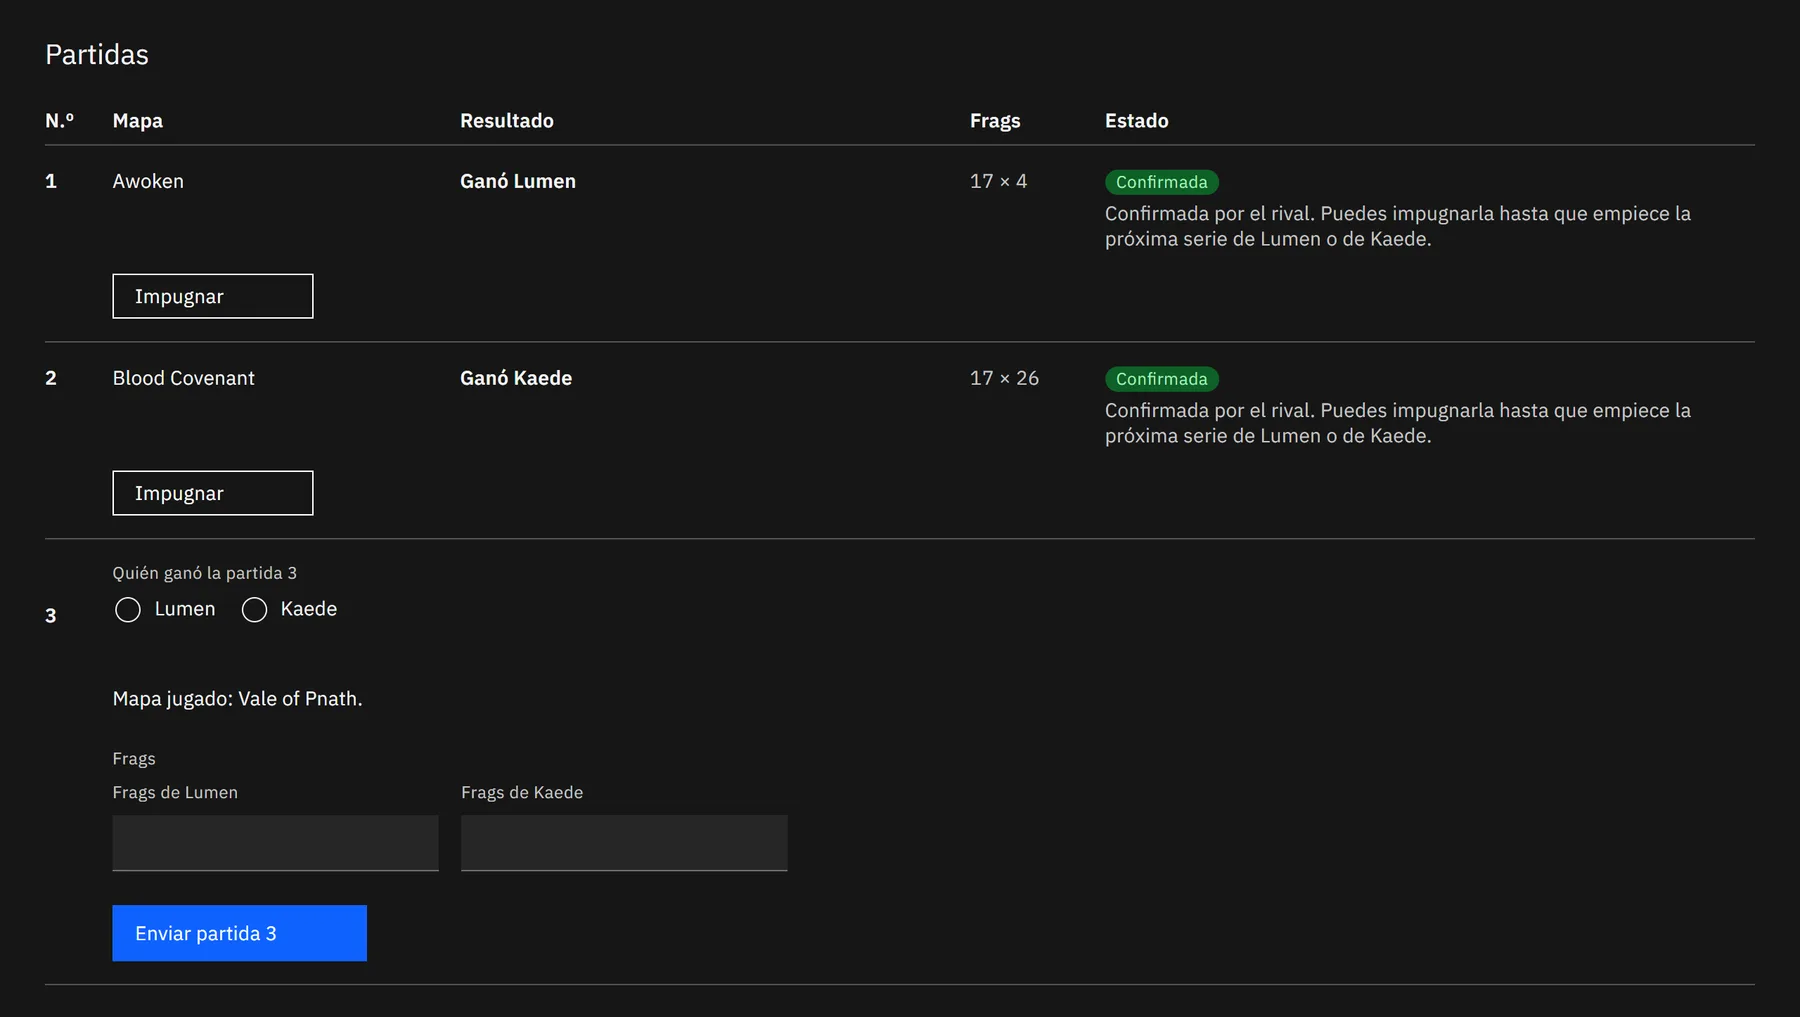
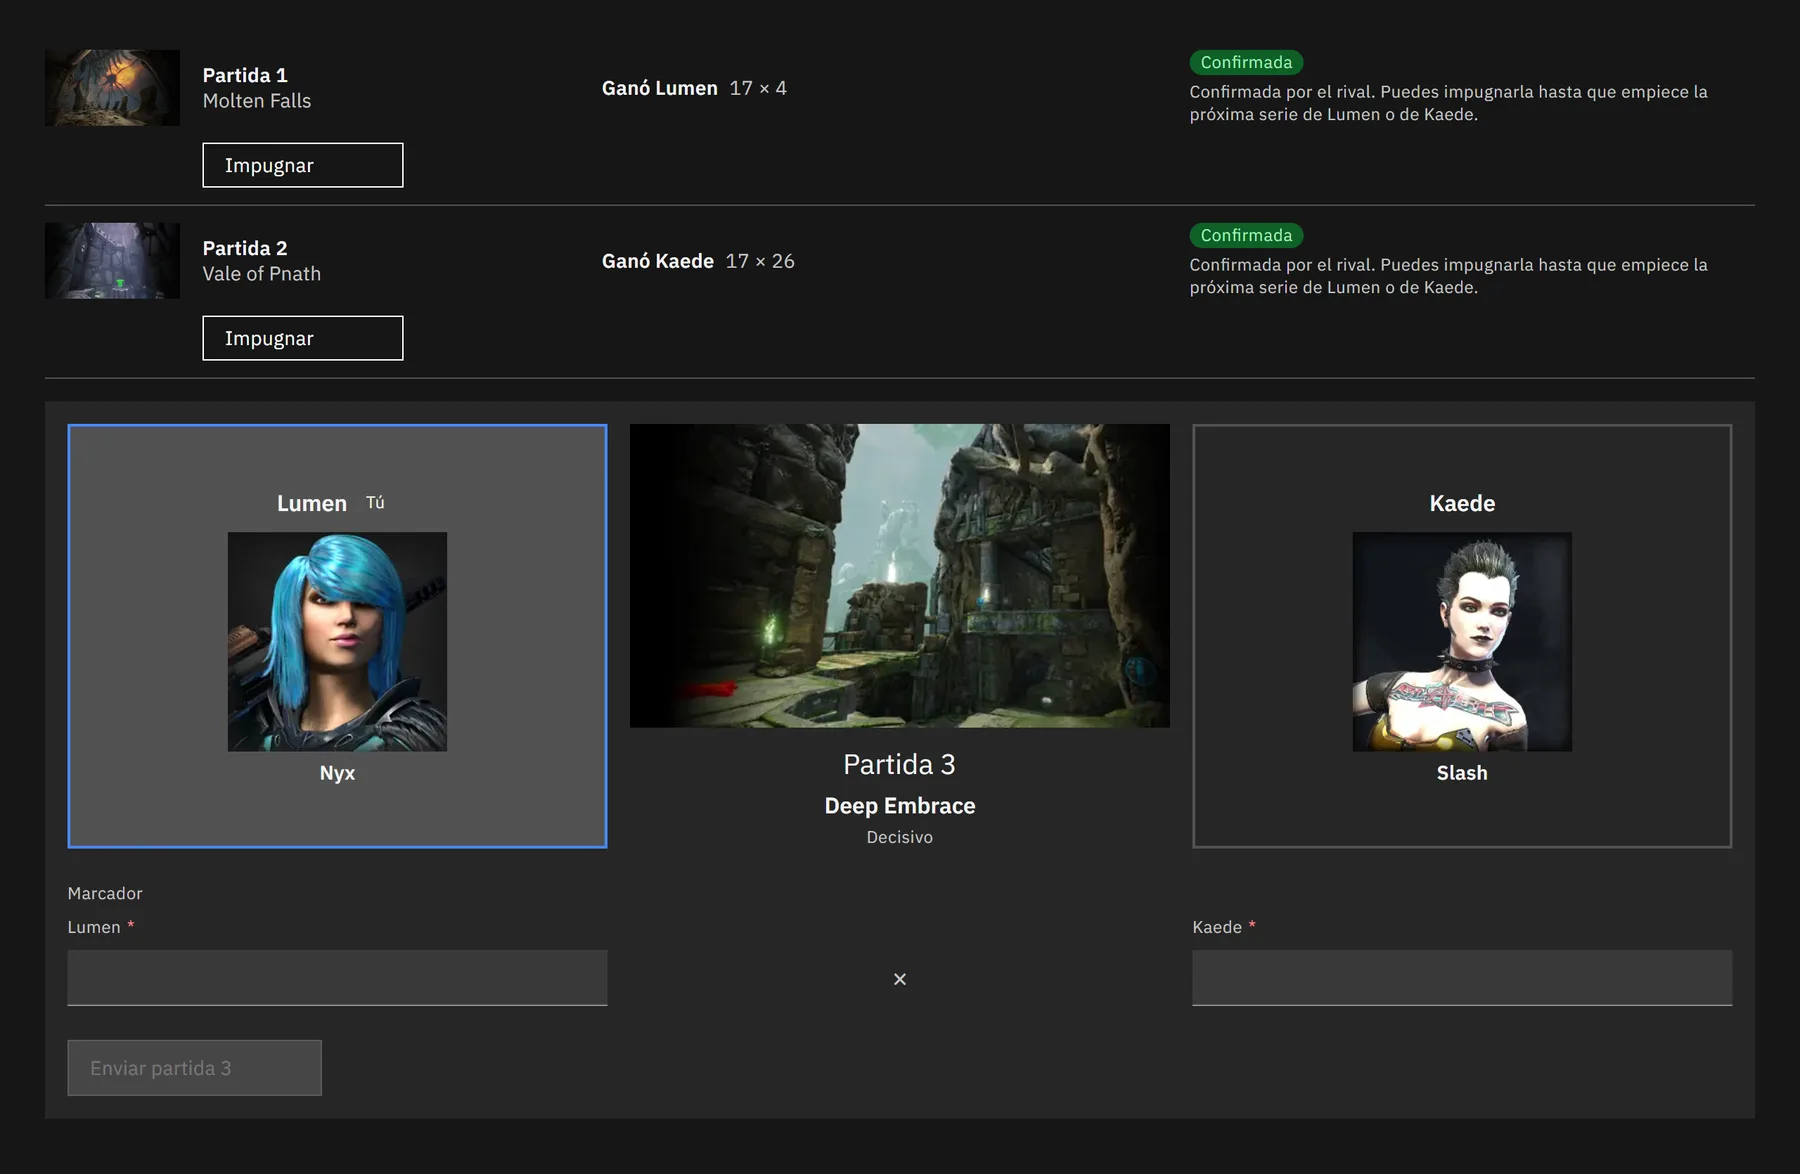
landing: result screenshots show the new match page
The "Resultado" tab of the presentation page showed the old games list
(column headers, the winner as radio buttons). The four captures (pt and
es, light and dark) now show the series as it is: two sent games in one
compact line each (map thumbnail, score, tag, "Contestar") and the decider
in the current game card, with each side's champion, "Você" on the
viewer's side and the score fields under each side. Taken with copies of
the user's scripts against a worktree API, front and database, with the
crop pointed at the games list (the page no longer has a visible
"Partidas" heading inside the steps). The crop is taller (1800x1174
instead of 1800x1017), so ProductShot reserves that size, and the alt text
in pt and es now also says the image shows the map and each side's
champion.

diff --git a/web/src/features/landing/components/product-shot.tsx b/web/src/features/landing/components/product-shot.tsx
@@ -12,7 +12,7 @@ import styles from "./product-shot.module.scss";
 const SHOTS = {
   bracket: { width: 1800, height: 1051 },
   veto: { width: 1800, height: 468 },
-  result: { width: 1800, height: 1017 },
+  result: { width: 1800, height: 1174 },
   ranking: { width: 1800, height: 943 },
 };
 
